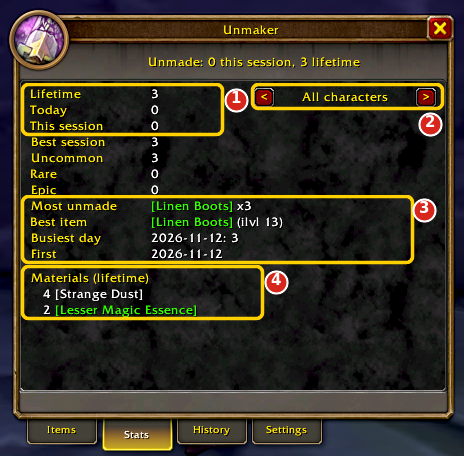
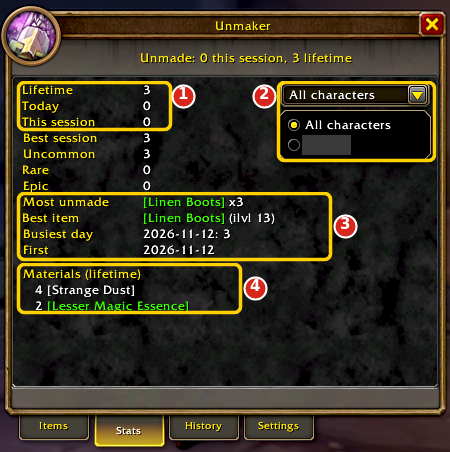
docs: Unmaker Stats screenshot with the character dropdown
The Stats shot still showed the old < > arrows. The new one shows the
character dropdown open; the owner's character name in it is covered by a
solid box, as the owner asked.

diff --git a/README.md b/README.md
@@ -170,7 +170,7 @@ Disenchanting without the hunt through your bags. One window lists everything yo
 1. The **Unmaker** button above your bags opens and closes the window.
 
 <p align="center">
-  <img src="docs/screenshots/unmaker-stats.png" alt="Unmaker's Stats tab: counts, the character switcher, fun facts and lifetime materials" width="420">
+  <img src="docs/screenshots/unmaker-stats.png" alt="Unmaker's Stats tab: counts, the character dropdown open, fun facts and lifetime materials" width="420">
   <img src="docs/screenshots/unmaker-history.png" alt="Unmaker's History tab: sortable headings and the loot from each disenchant" width="420">
 </p>
 
